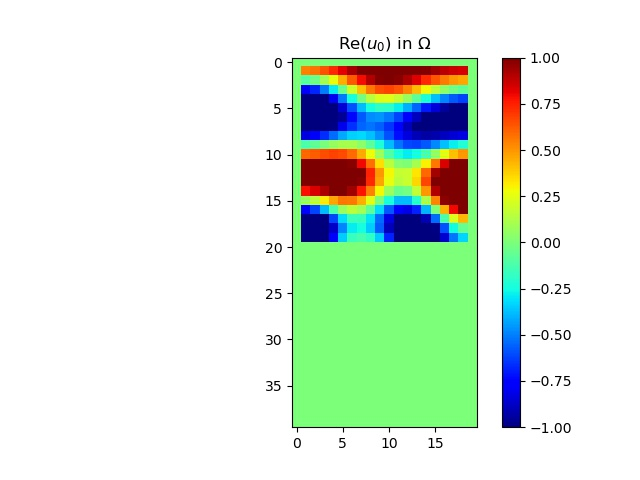
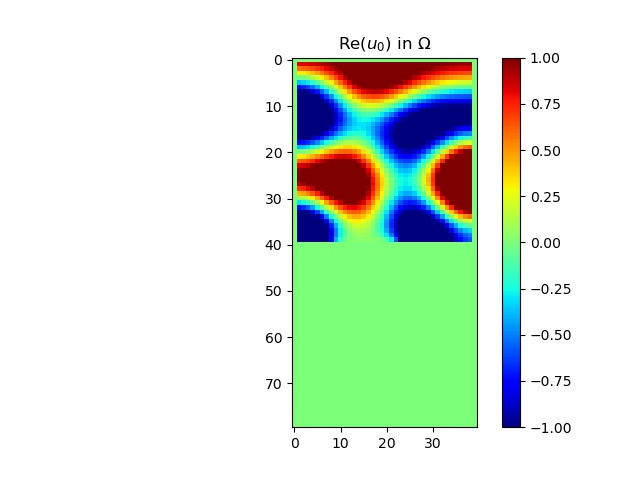
a

diff --git a/demo_control_polycopie.py b/demo_control_polycopie.py
@@ -19,6 +19,7 @@ import preprocessing
 import processing
 import postprocessing
 import alpha_compute
+import pdb
 #import solutions
 
 
@@ -26,7 +27,7 @@ def your_optimization_procedure(domain_omega, spacestep, wavenumber, f, f_dir, f
                                 beta_pde, alpha_pde, alpha_dir, beta_neu, beta_rob, alpha_rob,
                                 Alpha, mu, chi, V_obj, mu1, V_0):
 
-    eps1 = 0.01
+    eps1 = 0.5
     eps2 = 0.01
     eps0 = 0.00001
     """This function return the optimized density.
@@ -76,8 +77,6 @@ def your_optimization_procedure(domain_omega, spacestep, wavenumber, f, f_dir, f
         for i in range(n-1):
             Jp[n-1-i, :] = Jp[n-1-i-1, :]
 
-        print(Jp)
-
         postprocessing._plot_perso_solution(Jp, chi*0)
 
         while ene >= energy[k] and mu > eps0:
@@ -91,10 +90,11 @@ def your_optimization_procedure(domain_omega, spacestep, wavenumber, f, f_dir, f
                     l -= eps2
                 else:
                     l += eps2
+                print(l)
                 chi_next = projector(chi-mu*Jp, l, domain_omega)
 
             print('    c. computing solution of Helmholtz problem, i.e., u')
-            alpha_rob = Alpha * chi
+            alpha_rob = Alpha * chi_next
             u = processing.solve_helmholtz(domain_omega, spacestep, wavenumber, f, f_dir, f_neu,
                                            f_rob, beta_pde, alpha_pde, alpha_dir, beta_neu, beta_rob, alpha_rob)
 
@@ -102,7 +102,6 @@ def your_optimization_procedure(domain_omega, spacestep, wavenumber, f, f_dir, f
             ene = your_compute_objective_function(
                 domain_omega, u, spacestep, mu1, V_0)
             energy[k+1] = ene
-
             if ene < energy[k]:
                 # The step is increased if the energy decreased
                 mu = mu * 1.1
@@ -171,7 +170,7 @@ if __name__ == '__main__':
     # -- Fell free to modify the function call in this cell.
     # ----------------------------------------------------------------------
     # -- set parameters of the geometry
-    N = 20  # number of points along x-axis
+    N = 40  # number of points along x-axis
     M = 2 * N  # number of points along y-axis
     level = 0  # level of the fractal : limited by N
     spacestep = 1.0 / N  # mesh size

diff --git a/_env.py b/_env.py
@@ -2,8 +2,10 @@
 
 
 NODE_INTERIOR = -1  # nodes located in the interior
-NODE_COMPLEMENTARY = -2  # nodes located in the complement of (interior + frontier)
+# nodes located in the complement of (interior + frontier)
+NODE_COMPLEMENTARY = -2
 NODE_DIRICHLET = 1  # nodes with dirichlet boundary condition
 NODE_NEUMANN = 2  # nodes with neumann boundary condition
 NODE_ROBIN = 3  # nodes with robin boundary condition
-
+NODE_LINER_A = 4  # nodes with robin boundary condition along liner_a
+NODE_LINER_B = 5  # nodes with robin boundary condition along liner_b
